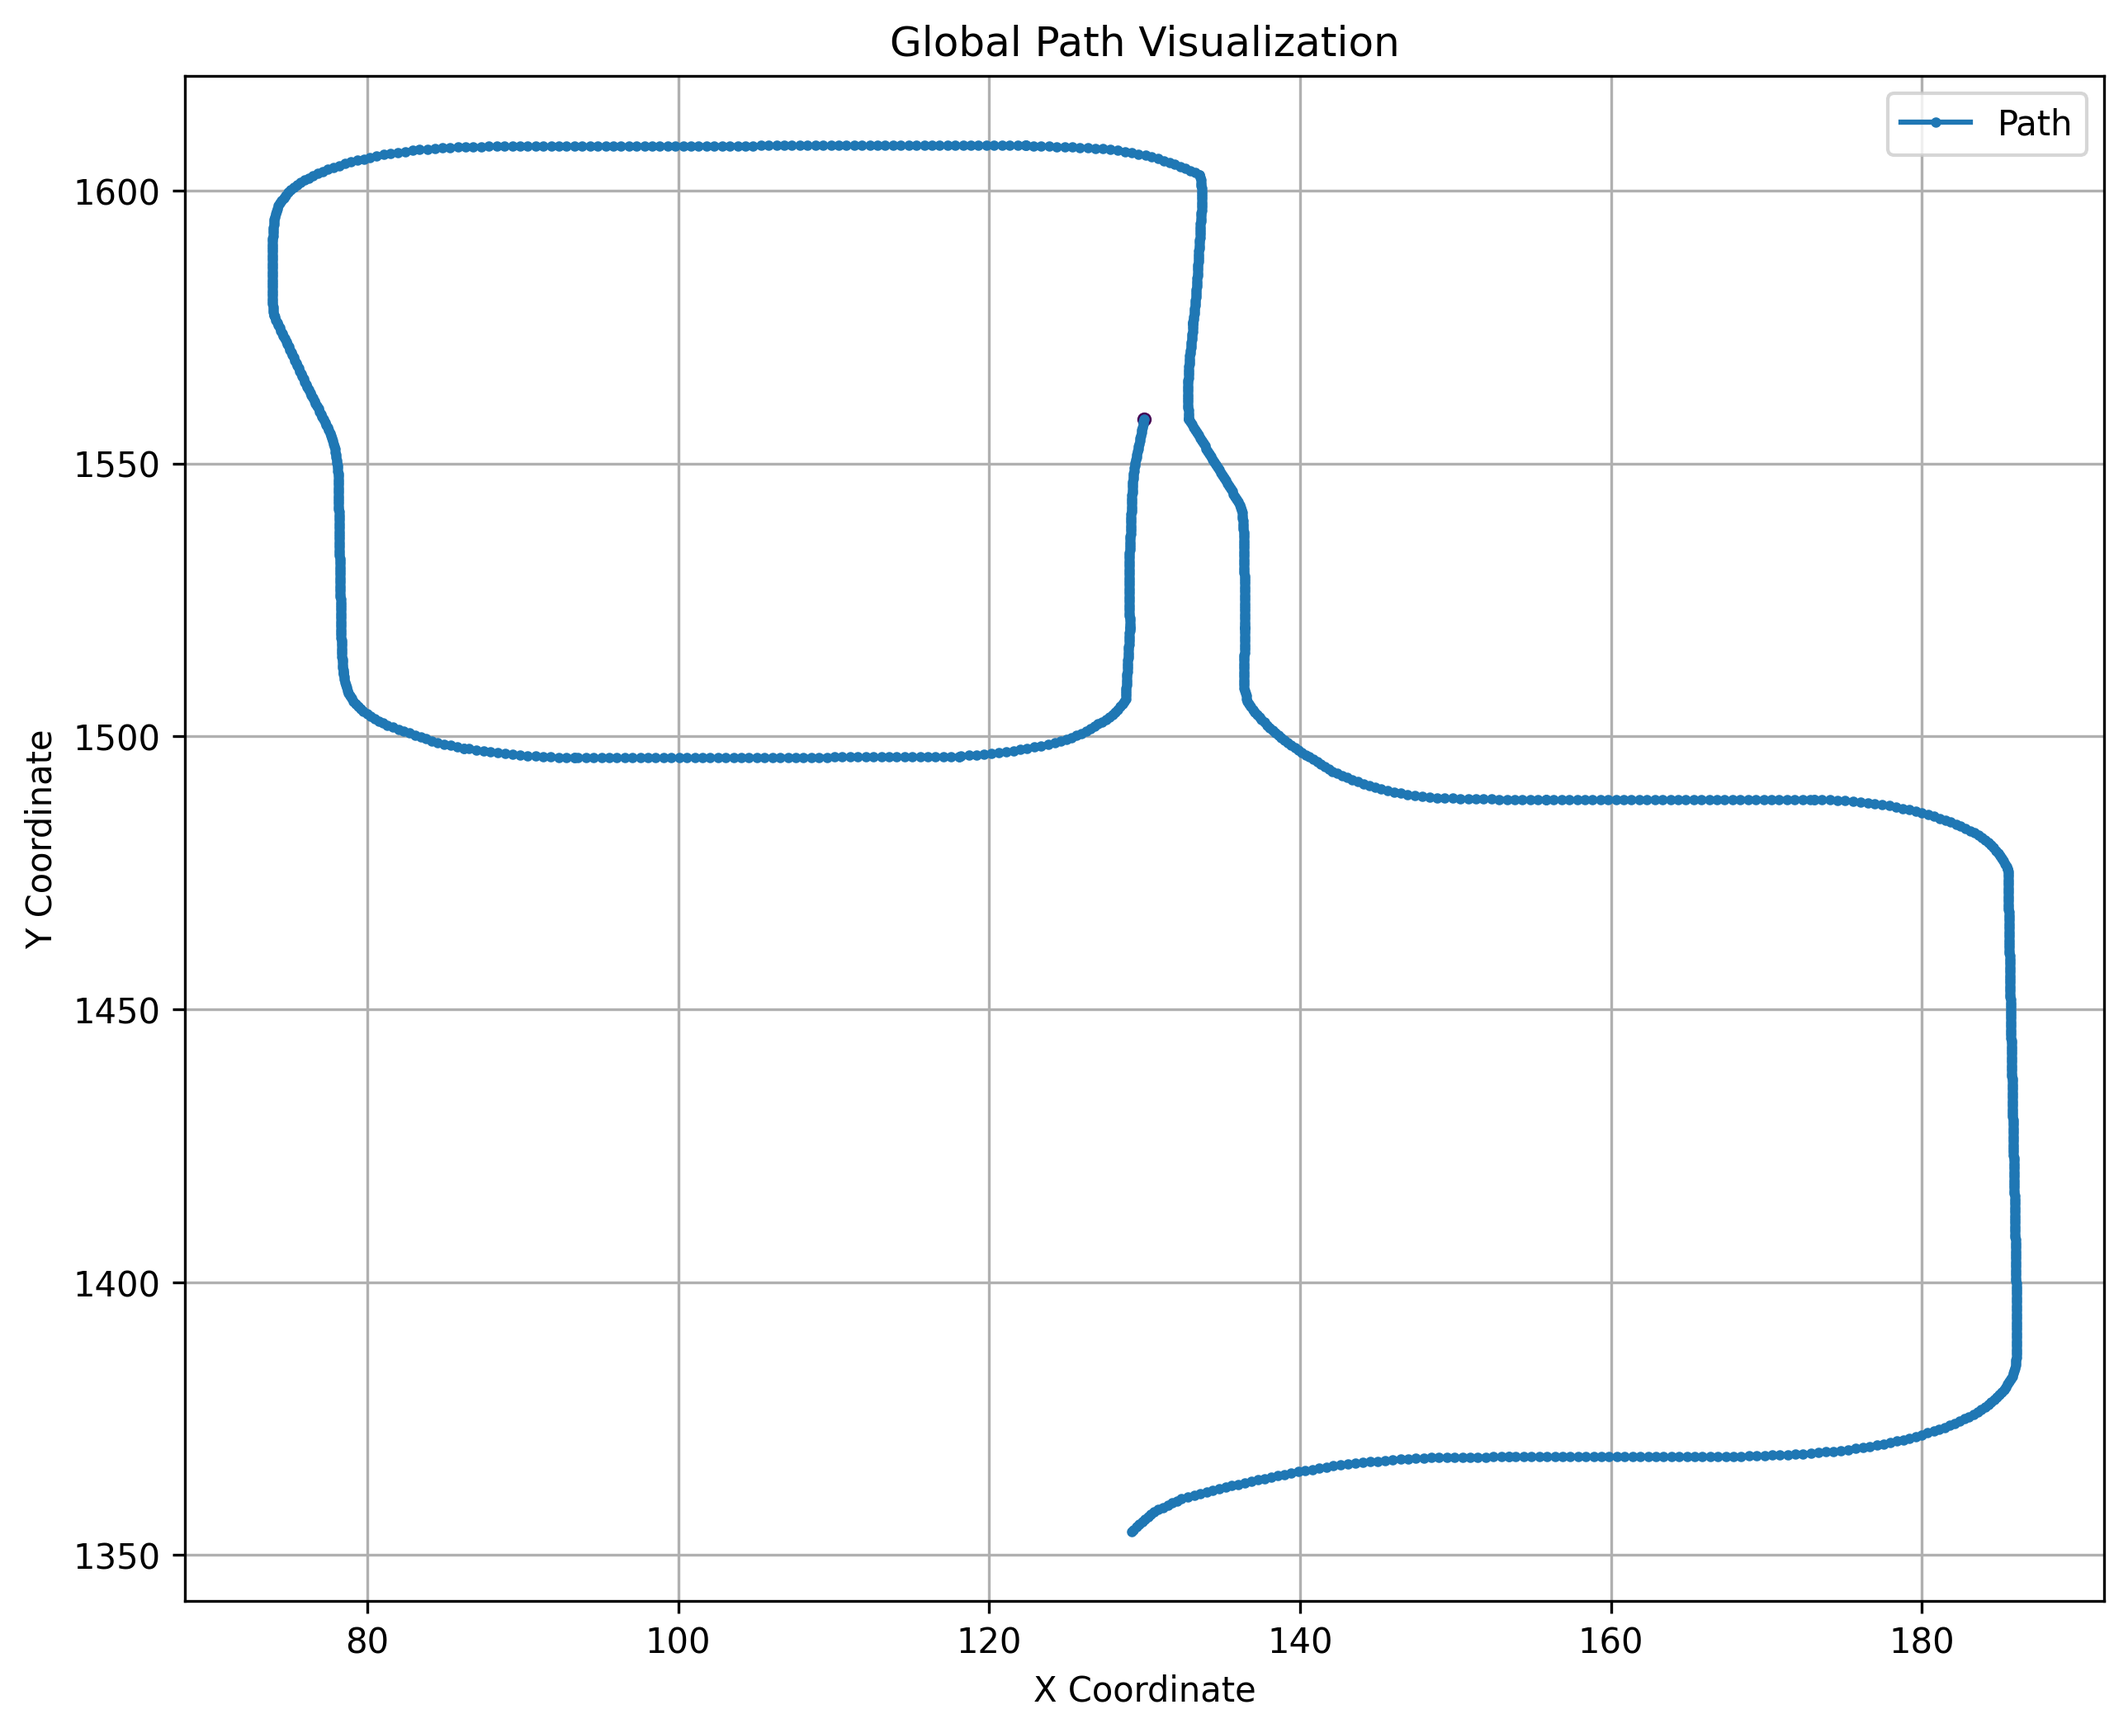
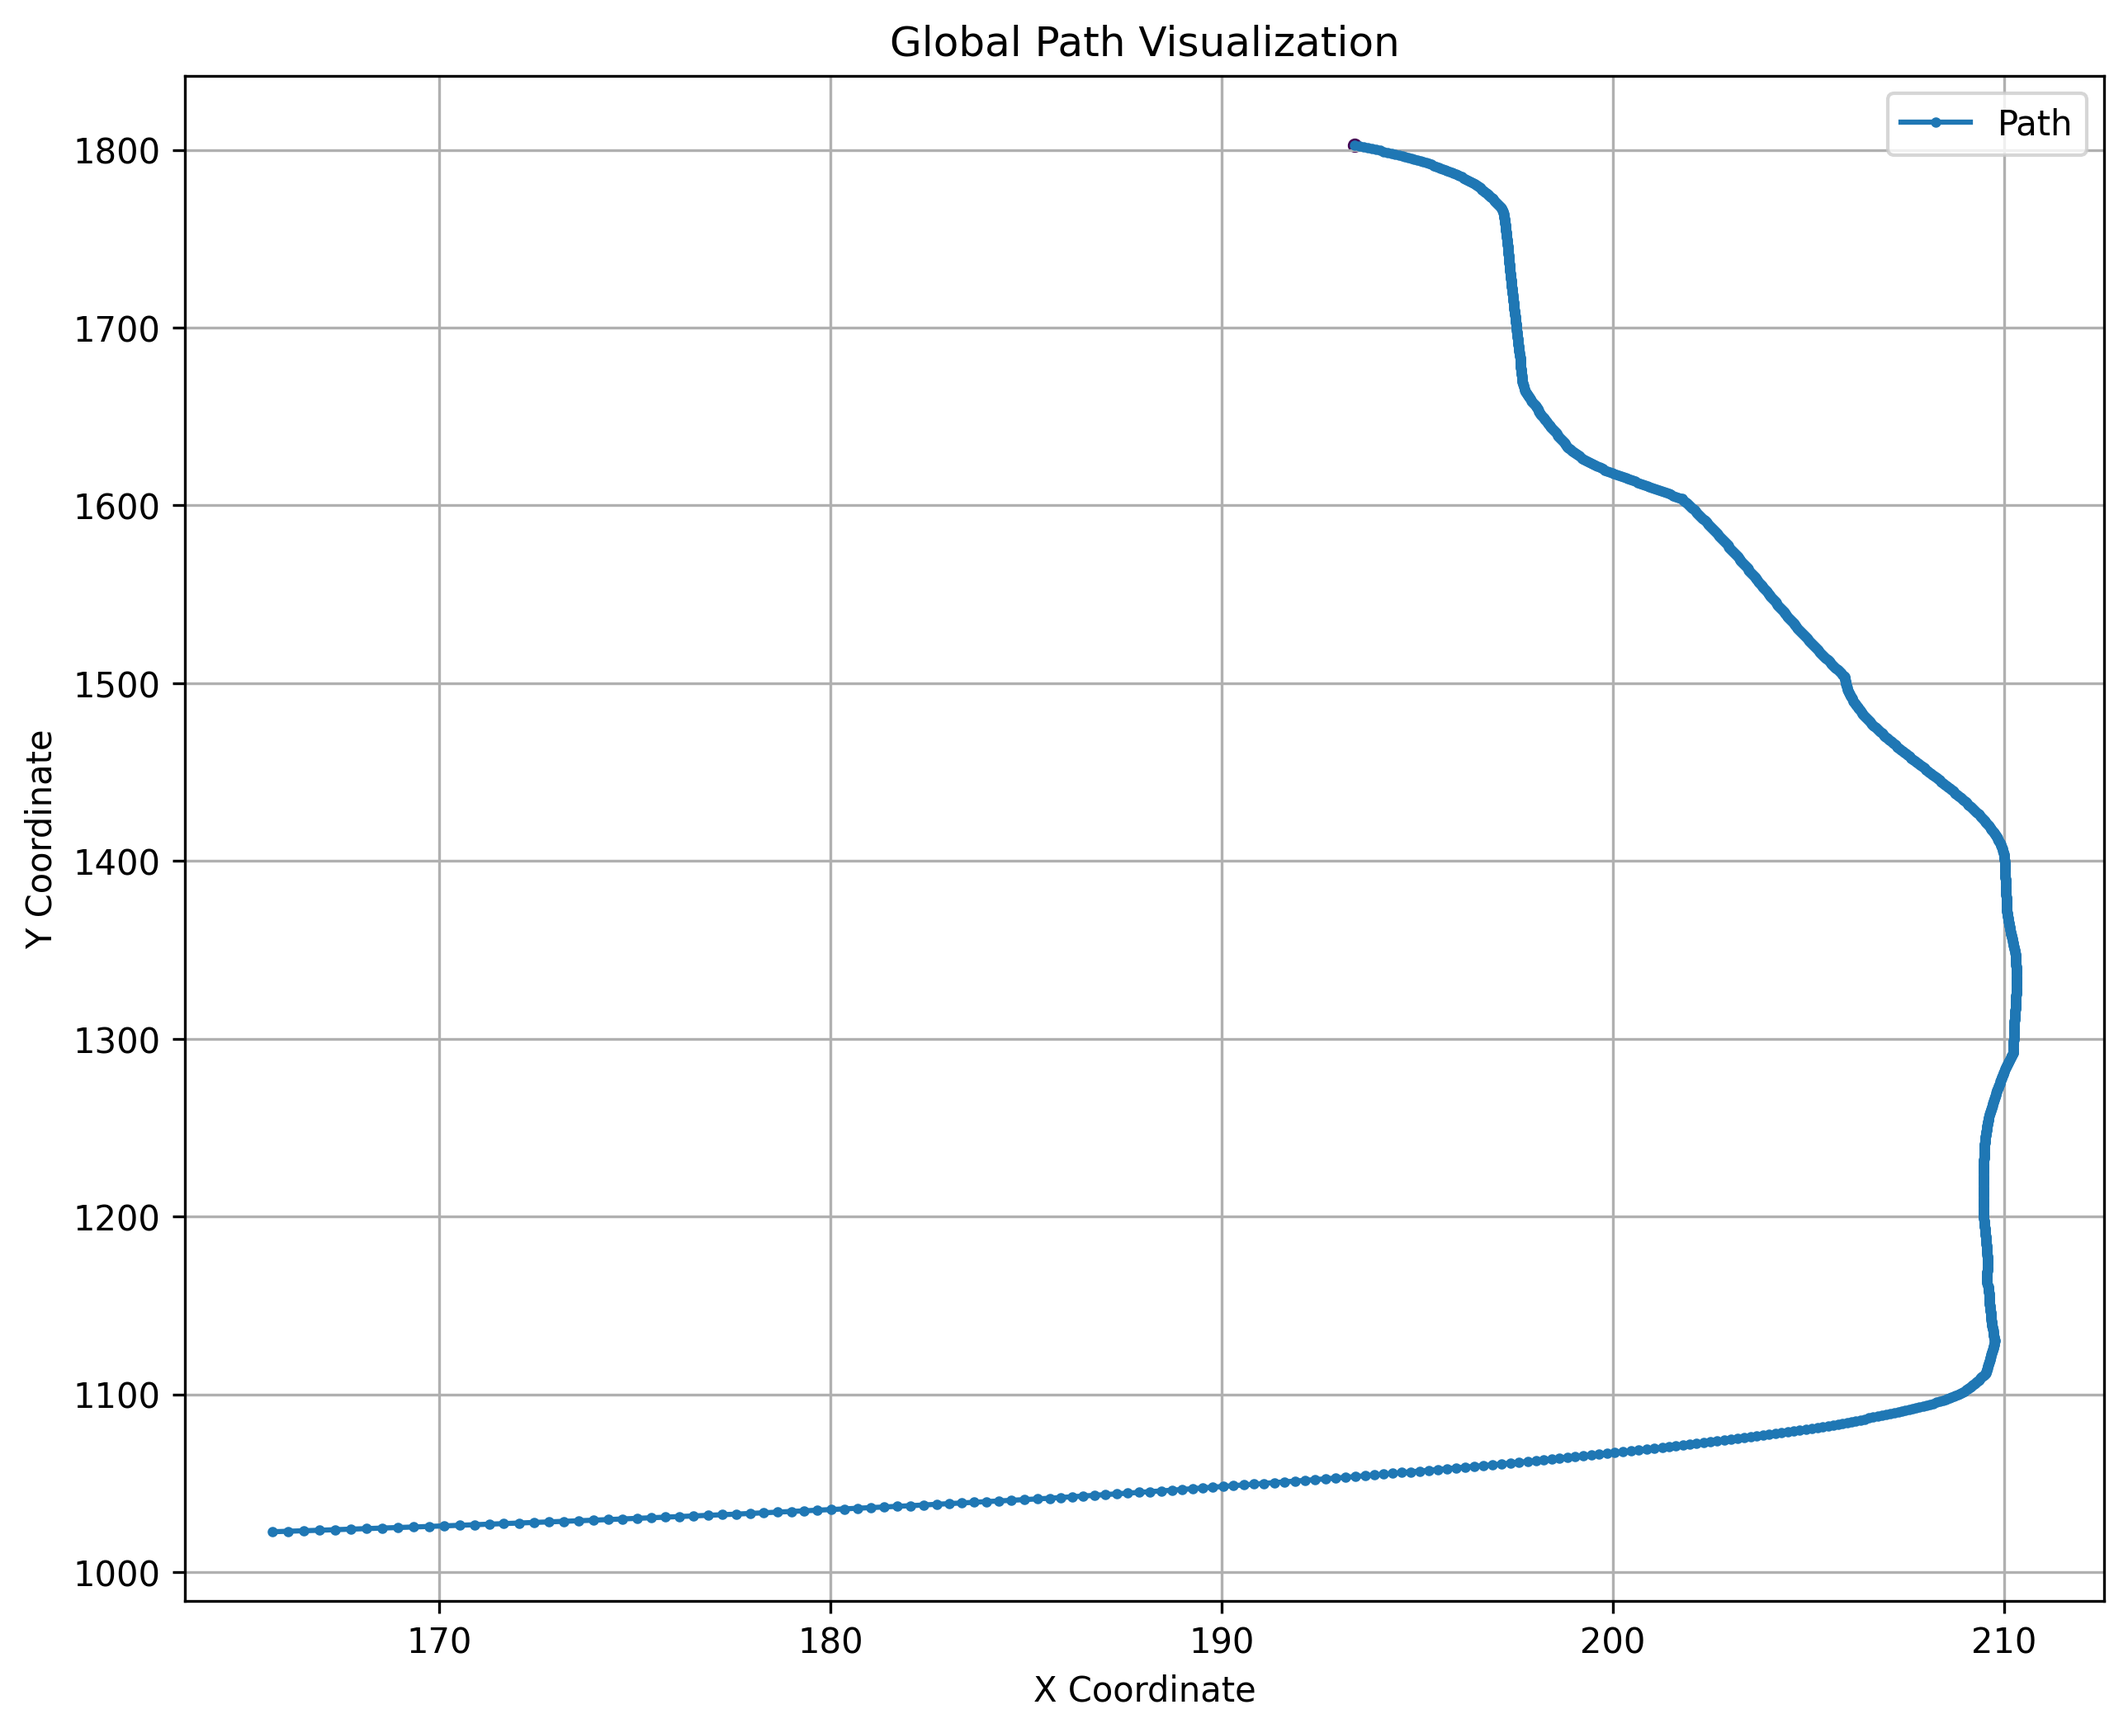
save

diff --git a/realtime_e2e_giwon.py b/realtime_e2e_giwon.py
@@ -208,6 +208,7 @@ def control_loop():
     global latest_waypoint
     
     
+    
     hz = 0.1  # 50Hz (0.02초 주기)
     interval = 1 / hz
     min_x, max_x = waypoints[:, 0].min(), waypoints[:, 0].max()
@@ -234,6 +235,8 @@ def control_loop():
         print(f"ego_x: {ego_x}  / ego_y: {ego_y}  / ego_speed: {ego_speed}  /  ego_yaw: {ego_yaw}")
         if ego_x ==0:
             continue
+        
+        breakpoint()
         # Step 2: 최신 Waypoint 가져오기 (스레드 동기화)
         # with waypoint_lock:
         #     if latest_waypoint is None:
@@ -241,7 +244,7 @@ def control_loop():
         #     target_x, target_y = latest_waypoint["waypoint"]
         #     target_speed = latest_waypoint["target_speed"]
         
-        waypoint_x, waypoint_y, waypoint_yaw, waypoint_curvature, waypoint_idx,closest_k_indices = find_closest_waypoint(ego_x, ego_y, waypoints)
+        waypoint_x, waypoint_y, waypoint_yaw, waypoint_curvature, waypoint_idx, closest_k_indices = find_closest_waypoint(ego_x, ego_y, waypoints)
         target_speed = max_speed / (1 + 10 * abs(waypoint_curvature))
         target_velocity = max(min_speed, min(target_speed, max_speed))
         steer = compute_steer(ego_x, ego_y, ego_yaw,ego_speed, waypoint_x, waypoint_y, waypoint_yaw)

diff --git a/EgoNetwork/Publisher/EgoVehicleStatus.py b/EgoNetwork/Publisher/EgoVehicleStatus.py
@@ -7,7 +7,7 @@ from lib.network.UDP import Receiver
 from lib.define.EgoVehicleStatus import EgoVehicleStatus
 
 IP = '143.248.59.11' 
-PORT = 4091
+PORT = 5091
 
 #Protocol 정보
 #https://help-morai-sim.scrollhelp.site/ko/morai-sim-drive/24.R2/ros-1#id-(24.R2-ko)통신메시지프로토콜-EgoVehicleStatus.1
@@ -15,8 +15,13 @@ def main():
     egovehiclestatus = Receiver(IP, PORT, EgoVehicleStatus())
     while True :
         status = egovehiclestatus.get_data()
-        print(status)        
-        time.sleep(0.1)
+        print(f"pos_X: {status.pos_x}")
+        print(f"pos_Y: {status.pos_y}")
+        print(f"pos_Z: {status.pos_z}")
+        
+        # 커서를 3줄 위로 이동
+        sys.stdout.write("\033[F\033[F\033[F")  
+        sys.stdout.flush()
         
 if __name__ == '__main__':
     main()

diff --git a/map_vis.py b/map_vis.py
@@ -2,7 +2,7 @@ import matplotlib.pyplot as plt
 import numpy as np
 
 # 데이터 파일 경로
-file_path = "hmg_mission1_global_path.txt"
+file_path = "hmg_mission2_global_path.txt"
 
 # 데이터 읽기
 coordinates = []
